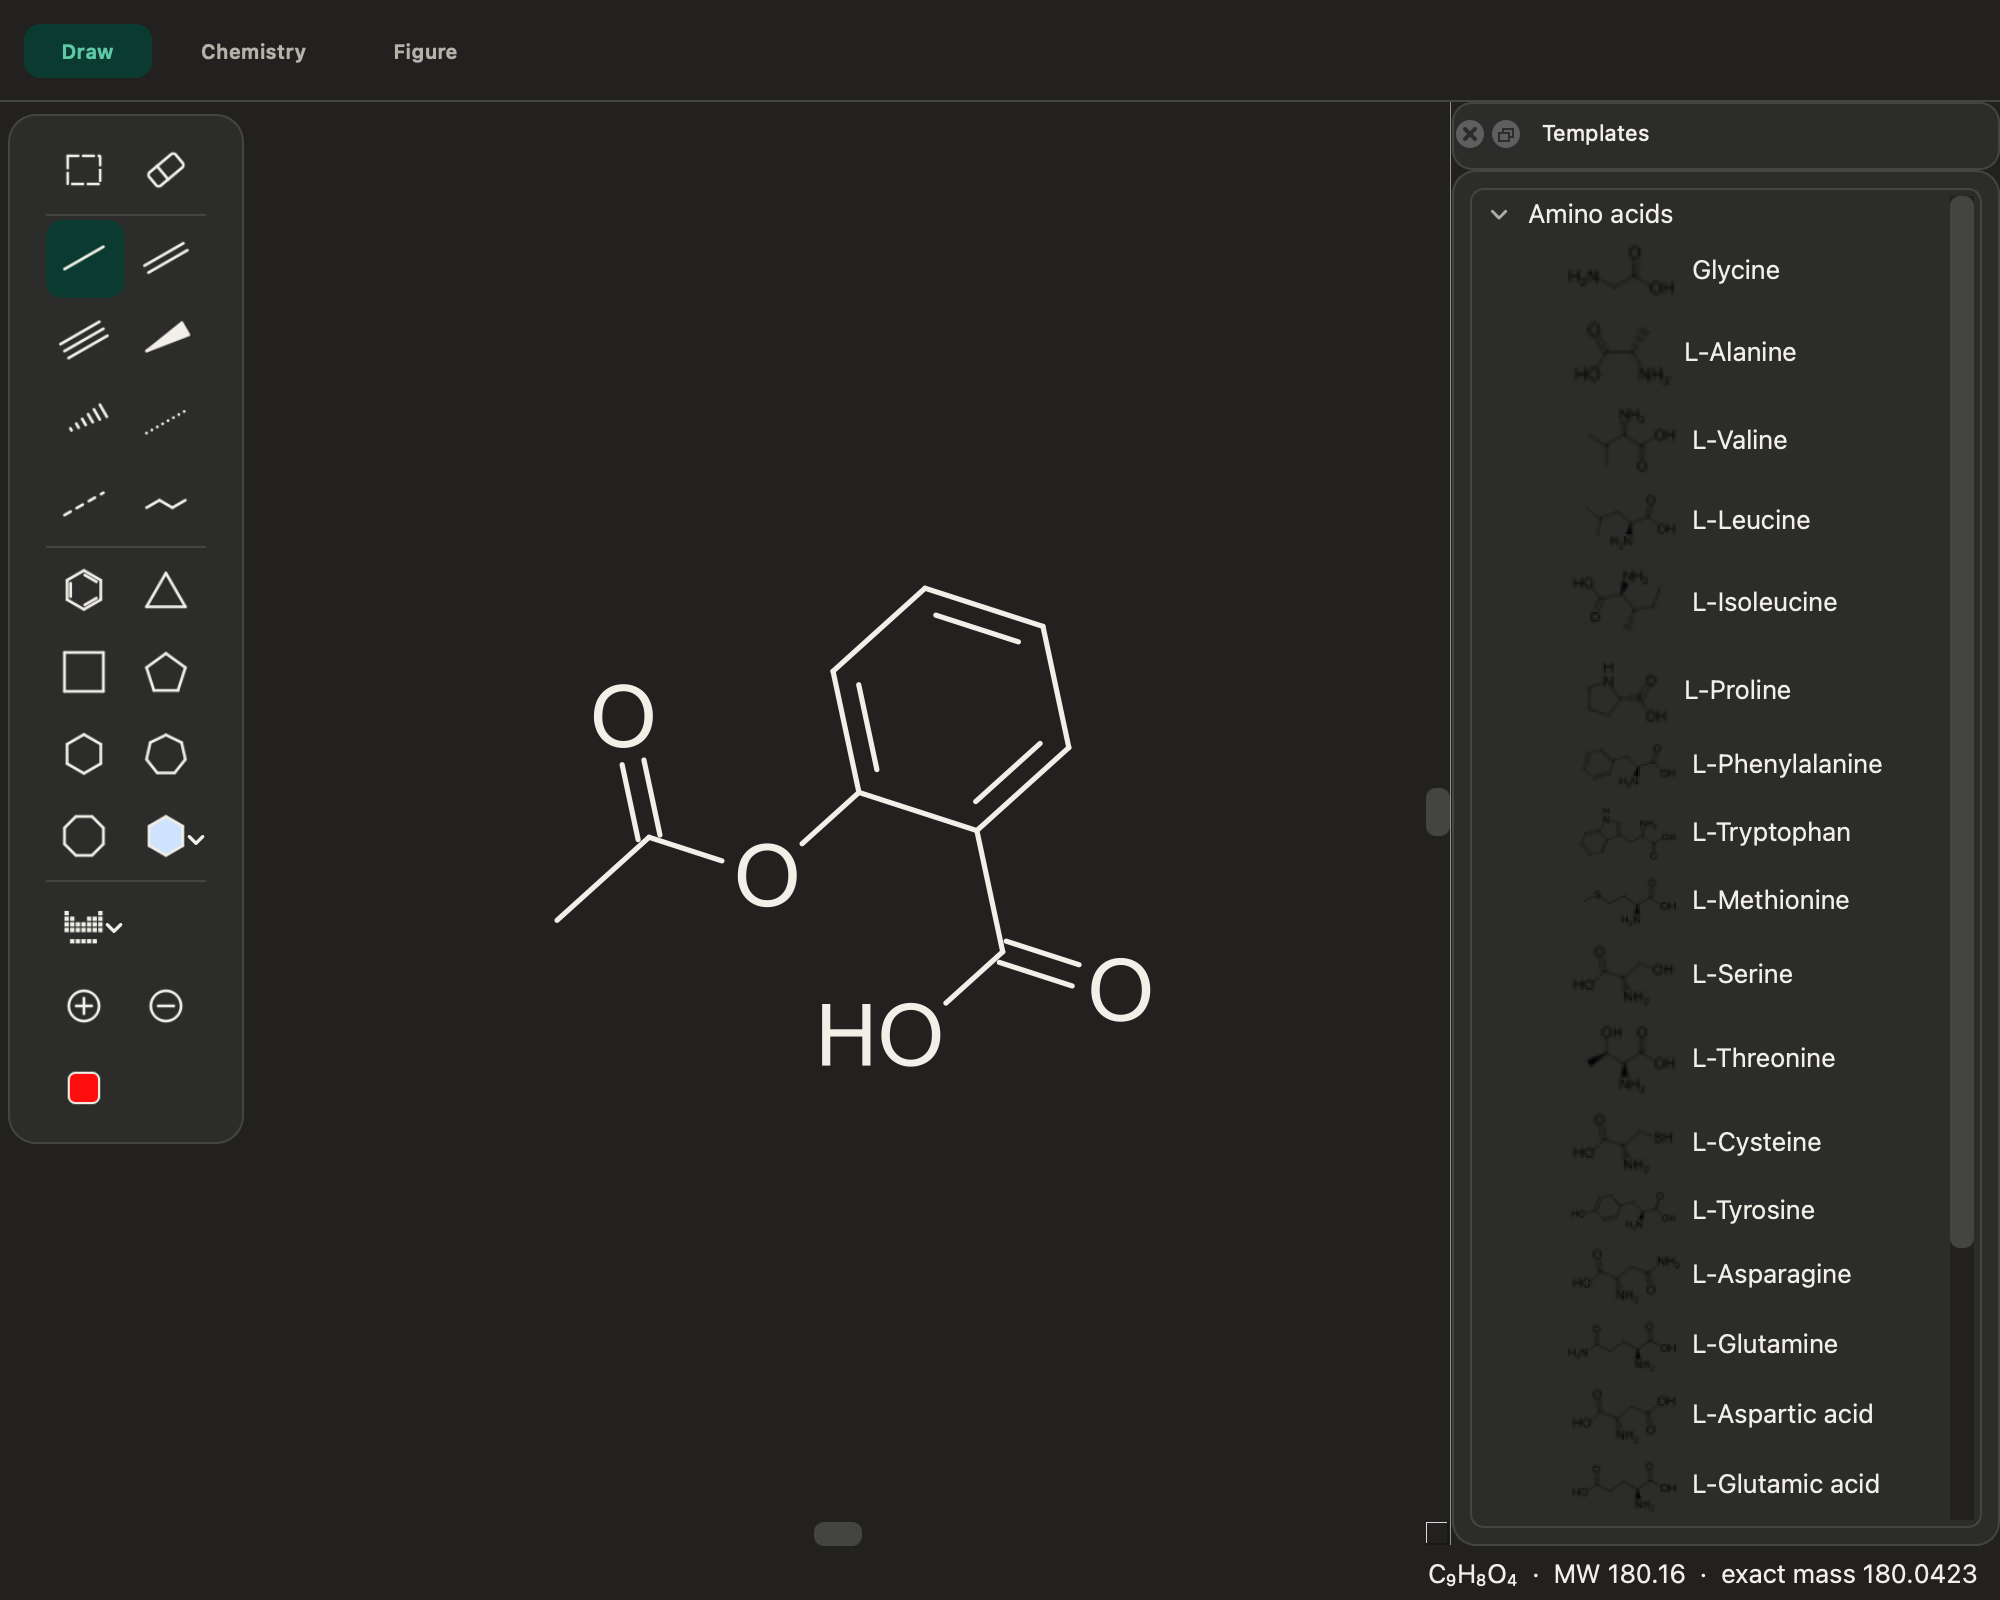
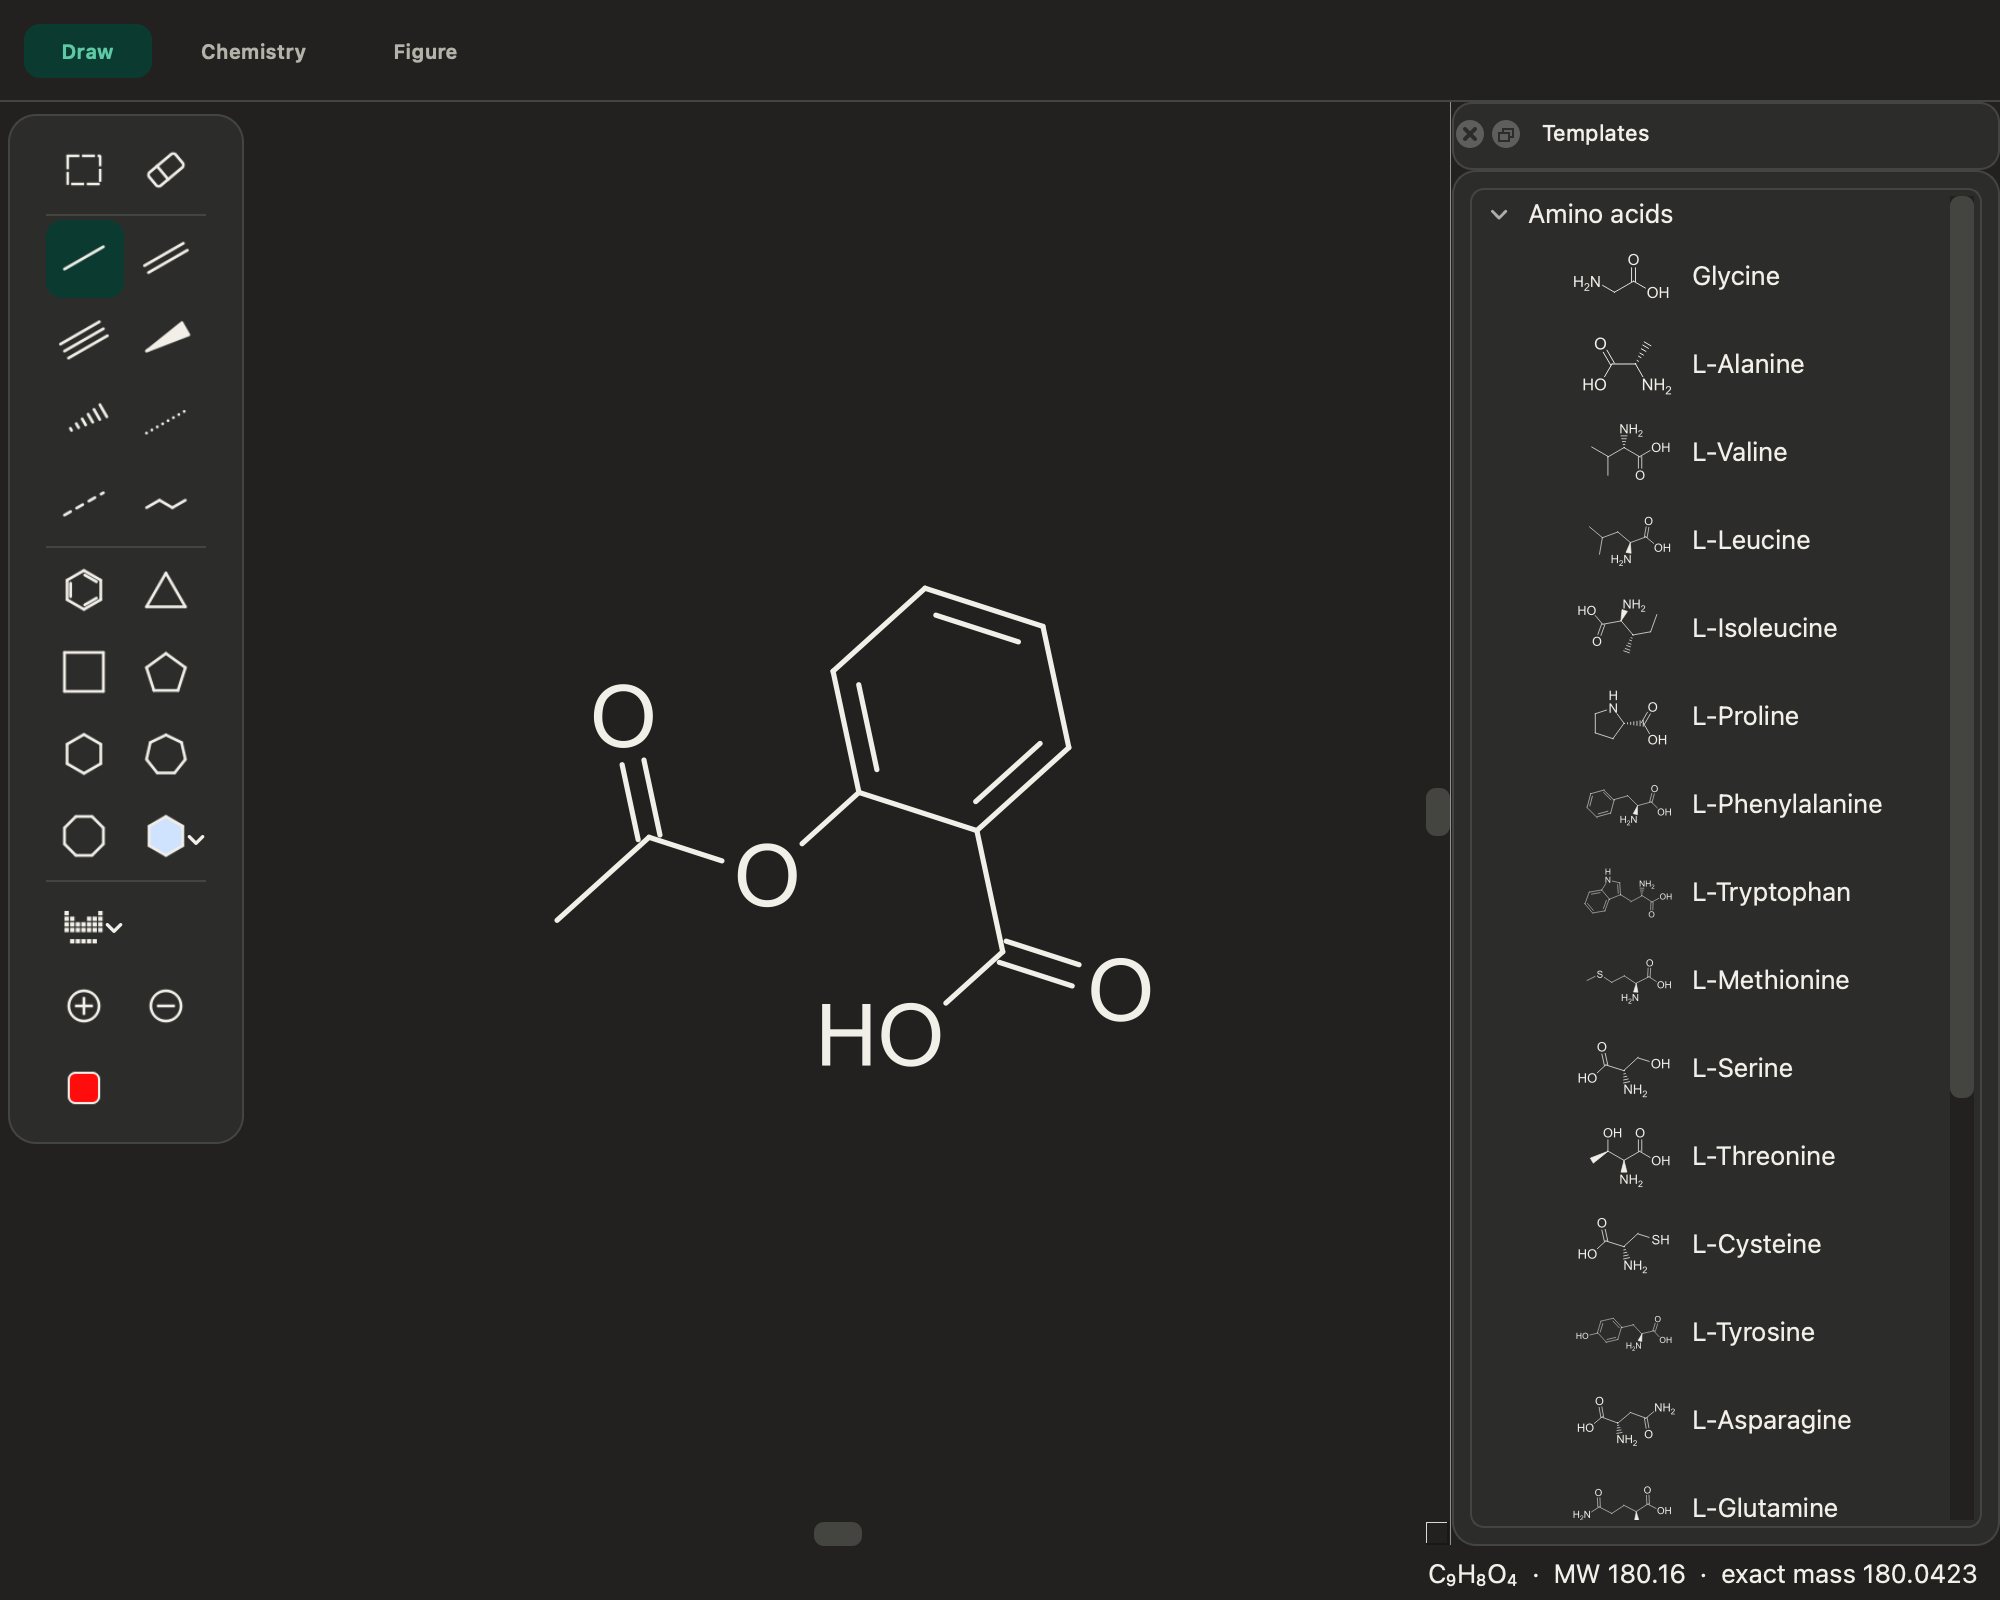
Template thumbnails in the theme's ink, painted like the Welcome examples

diff --git a/src/MainWindow.cpp b/src/MainWindow.cpp
@@ -249,24 +249,27 @@ void MainWindow::buildWelcome() {
 }
 
 // The examples' previews in the theme's ink (again after a theme change).
+// A drawing as an icon in the interface's ink, so it reads on light and dark panels alike.
+static QIcon drawingIcon(const Document& doc, QSize size, QColor ink, qreal ratio) {
+    QImage img(size * ratio, QImage::Format_ARGB32_Premultiplied);
+    img.setDevicePixelRatio(ratio);
+    img.fill(Qt::transparent);
+    QPainter p(&img);
+    p.setRenderHint(QPainter::Antialiasing);
+    const QRectF r = documentBounds(doc);
+    const double k = std::min(size.width() / r.width(), size.height() / r.height()) * 0.92;
+    p.translate(size.width() / 2.0, size.height() / 2.0);
+    p.scale(k, k);
+    p.translate(-r.center());
+    paintDocument(p, doc, {ink, ink});
+    p.end();
+    return QIcon(QPixmap::fromImage(img));
+}
+
 void MainWindow::paintExamples() {
     const QColor ink = palette().color(QPalette::WindowText);
-    const qreal ratio = devicePixelRatioF();
-    for (auto& [button, doc] : welcomeExamples_) {
-        QImage img(kExampleIcon * ratio, QImage::Format_ARGB32_Premultiplied);
-        img.setDevicePixelRatio(ratio);
-        img.fill(Qt::transparent);
-        QPainter p(&img);
-        p.setRenderHint(QPainter::Antialiasing);
-        const QRectF r = documentBounds(doc);
-        const double k = std::min(kExampleIcon.width() / r.width(), kExampleIcon.height() / r.height()) * 0.92;
-        p.translate(kExampleIcon.width() / 2.0, kExampleIcon.height() / 2.0);
-        p.scale(k, k);
-        p.translate(-r.center());
-        paintDocument(p, doc, {ink, ink});
-        p.end();
-        button->setIcon(QIcon(QPixmap::fromImage(img)));
-    }
+    for (auto& [button, doc] : welcomeExamples_)
+        button->setIcon(drawingIcon(doc, kExampleIcon, ink, devicePixelRatioF()));
 }
 
 bool MainWindow::eventFilter(QObject* watched, QEvent* e) {
@@ -600,13 +603,12 @@ bool printDocument(QPrinter& printer, const Document& doc) {
     return p.end();
 }
 
-static QIcon templateIcon(const Document& doc) {
-    QImage img = renderImage(doc, {40});
-    return QIcon(QPixmap::fromImage(img.scaled(56, 40, Qt::KeepAspectRatio, Qt::SmoothTransformation)));
-}
-
 void MainWindow::fillTemplates() {
     templates_->clear();
+    const QColor ink = palette().color(QPalette::WindowText);
+    auto templateIcon = [&](const Document& doc) {
+        return drawingIcon(doc, templates_->iconSize(), ink, devicePixelRatioF());
+    };
     QHash<QString, QTreeWidgetItem*> groups;
     auto group = [&](const QString& name) {
         if (!groups.contains(name)) groups[name] = new QTreeWidgetItem(templates_, {name});
@@ -1321,6 +1323,7 @@ void MainWindow::applyTheme(const QString& name) {
     canvas_->setTheme(active);
     for (auto& [action, make] : icons_) action->setIcon(make());
     paintExamples();
+    if (templates_->topLevelItemCount()) fillTemplates();  // repaint the thumbnails in the new ink
     QSettings().setValue("theme", chosen.name);
 }
 

diff --git a/tests/test_canvas.cpp b/tests/test_canvas.cpp
@@ -1740,6 +1740,32 @@ TEST_CASE("the window and What's New share one lab notebook palette (#246)") {
     CHECK(chrome(theme("Catppuccin Mocha")).secondary == theme("Catppuccin Mocha").text);  // keeps its own
 }
 
+TEST_CASE("template thumbnails are drawn in the theme's ink (#261)") {
+    App app;
+    auto lightest = [](const QIcon& icon) {
+        const QImage img = icon.pixmap(56, 40).toImage();
+        int most = 0;
+        for (int y = 0; y < img.height(); ++y)
+            for (int x = 0; x < img.width(); ++x)
+                if (qAlpha(img.pixel(x, y)) > 128) most = std::max(most, QColor(img.pixel(x, y)).lightness());
+        return most;
+    };
+    for (QString t : {"Dark", "Light"}) {
+        QSettings().setValue("theme", t);
+        MainWindow w;
+        w.show();
+        auto* dock = w.findChild<QDockWidget*>("templates");
+        REQUIRE(dock);
+        dock->show();
+        auto* tree = dock->findChild<QTreeWidget*>();
+        REQUIRE(tree->topLevelItemCount() > 0);
+        const int ink = lightest(tree->topLevelItem(0)->child(0)->icon(0));
+        if (t == "Dark") CHECK(ink > 200);  // light strokes on the dark panel
+        else CHECK(ink < 100);
+    }
+    QSettings().remove("theme");
+}
+
 TEST_CASE("drawing and chemistry time grow linearly with the drawing (#114)") {
     App app;
     Document one = *chem::fromSmiles("CC(=O)Oc1ccccc1C(=O)O");

diff --git a/CHANGELOG.md b/CHANGELOG.md
@@ -9,6 +9,7 @@ a bullet with a **bold title** is a highlight (with an optional `<!-- icon: name
 - The .penz format is documented, with a JSON Schema (penzene.readthedocs.io, File formats), and every release's files are tested to keep opening.
 - The j hotkey (η⁵-cyclopentadienyl) on a ring that's already there makes that ring Cp⁻, instead of corrupting memory; Python scripts no longer crash now and then as they exit.
 - The Drawing, Chemistry and Figures pages of the documentation show the app, in light and dark.
+- Template thumbnails are drawn in the theme's ink, so they show on dark panels, and they're sharper.
 
 ## 0.9.0 (2026-09-26)
 
